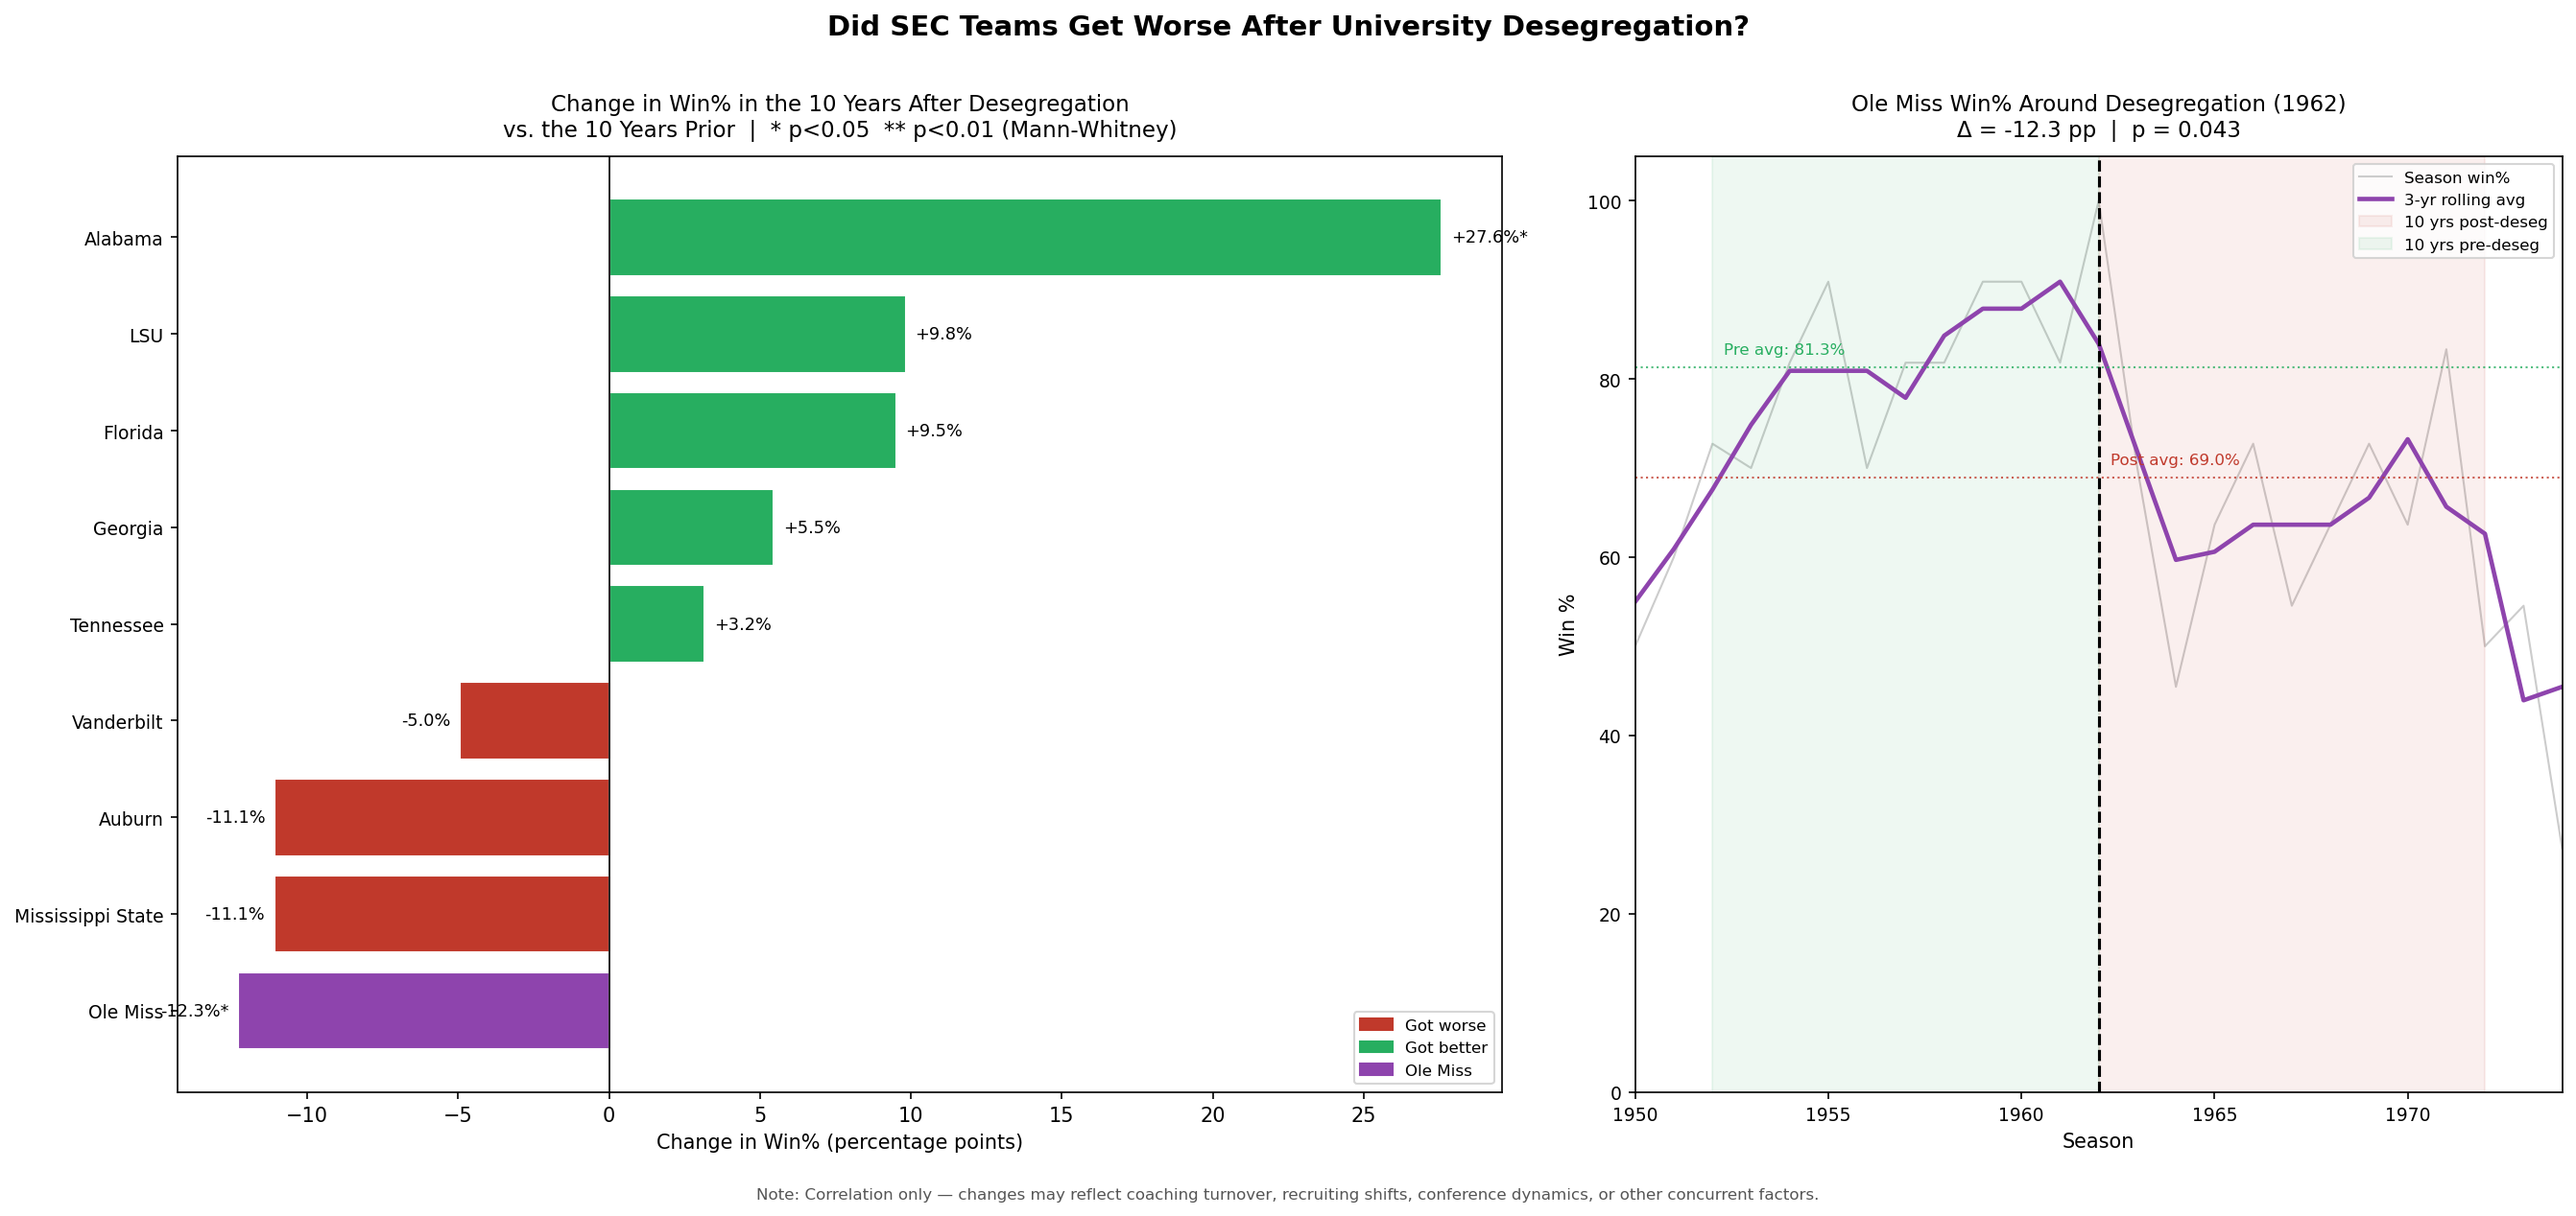
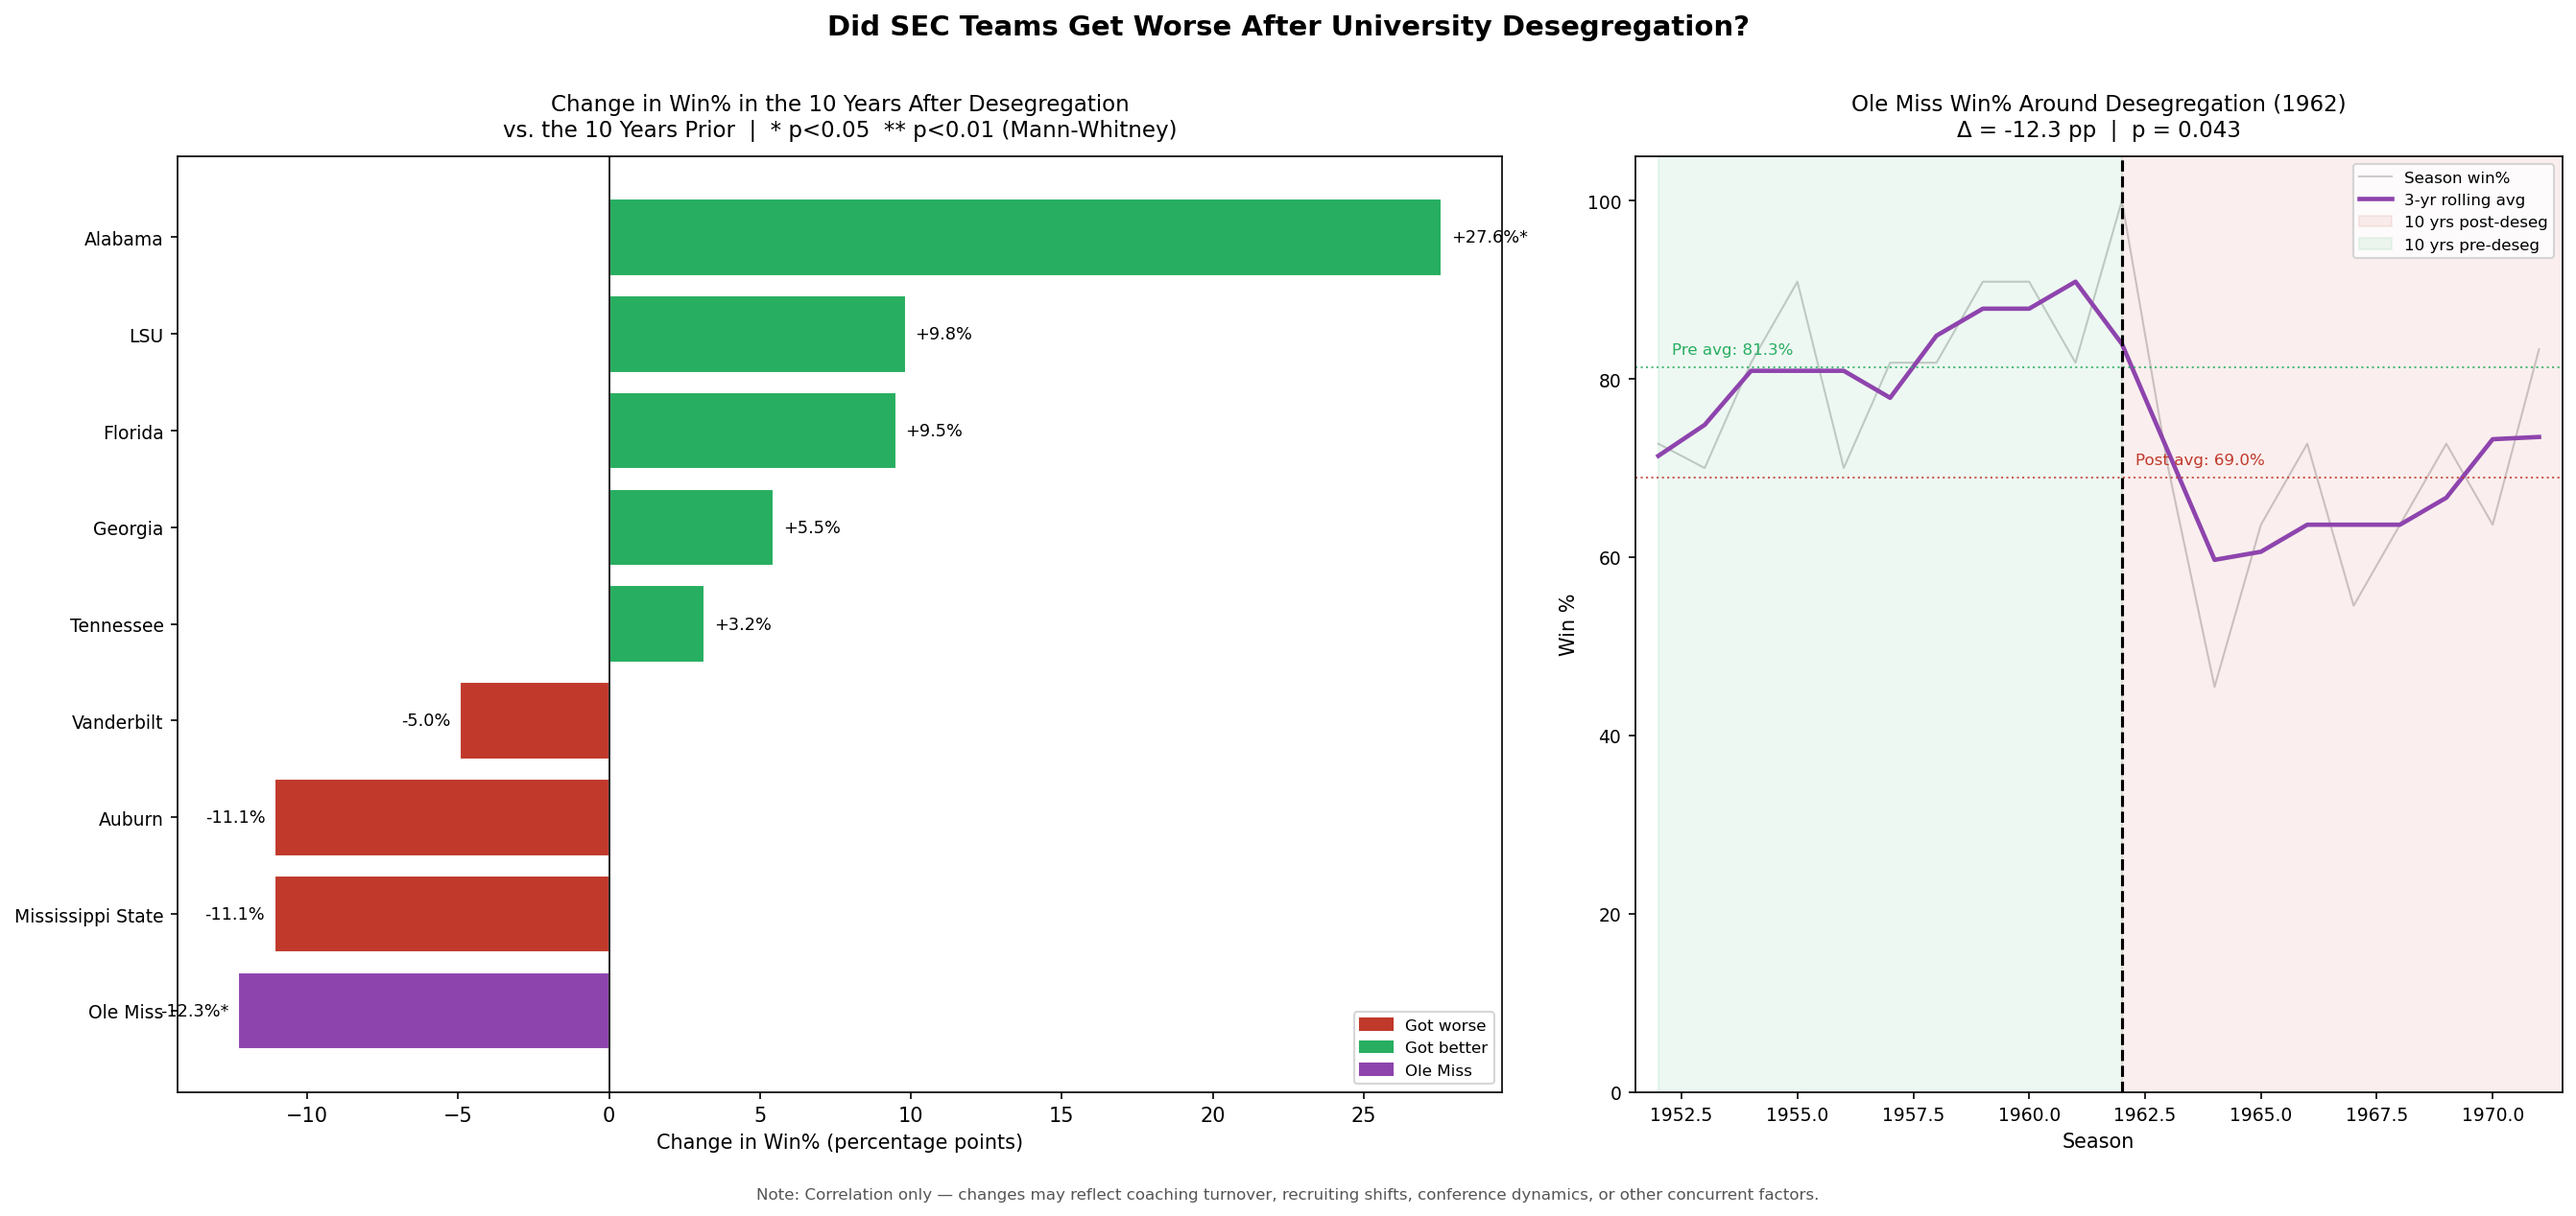
Restrict Ole Miss time series to exact 10-year pre/post window

diff --git a/sec_deseg_impact.py b/sec_deseg_impact.py
@@ -144,8 +144,14 @@ def create_figure(results: pd.DataFrame, df: pd.DataFrame) -> None:
 
     # ── Panel 2: Ole Miss win% time series ────────────────────────────────
     pivot = df.pivot(index="year", columns="team", values="win_pct")
-    om_series = pivot["Ole Miss"].dropna()
     om_deseg  = DESEG_YEARS["Ole Miss"]   # 1962
+
+    # Restrict to exactly the 10-year windows used in the analysis
+    om_series = pivot["Ole Miss"].dropna()
+    om_series = om_series[
+        (om_series.index >= om_deseg - WINDOW) &
+        (om_series.index <  om_deseg + WINDOW)
+    ]
 
     # Rolling 3-year average to smooth noise
     om_roll = om_series.rolling(3, center=True, min_periods=2).mean()
@@ -171,7 +177,7 @@ def create_figure(results: pd.DataFrame, df: pd.DataFrame) -> None:
     ax_ts.text(om_deseg + 0.3, om_row["post_avg"] * 100 + 1.5,
                f"Post avg: {om_row['post_avg']*100:.1f}%", fontsize=8, color="#c0392b")
 
-    ax_ts.set_xlim(om_deseg - WINDOW - 2, om_deseg + WINDOW + 2)
+    ax_ts.set_xlim(om_deseg - WINDOW - 0.5, om_deseg + WINDOW - 0.5)
     ax_ts.set_ylim(0, 105)
     ax_ts.set_xlabel("Season", fontsize=10)
     ax_ts.set_ylabel("Win %", fontsize=10)
